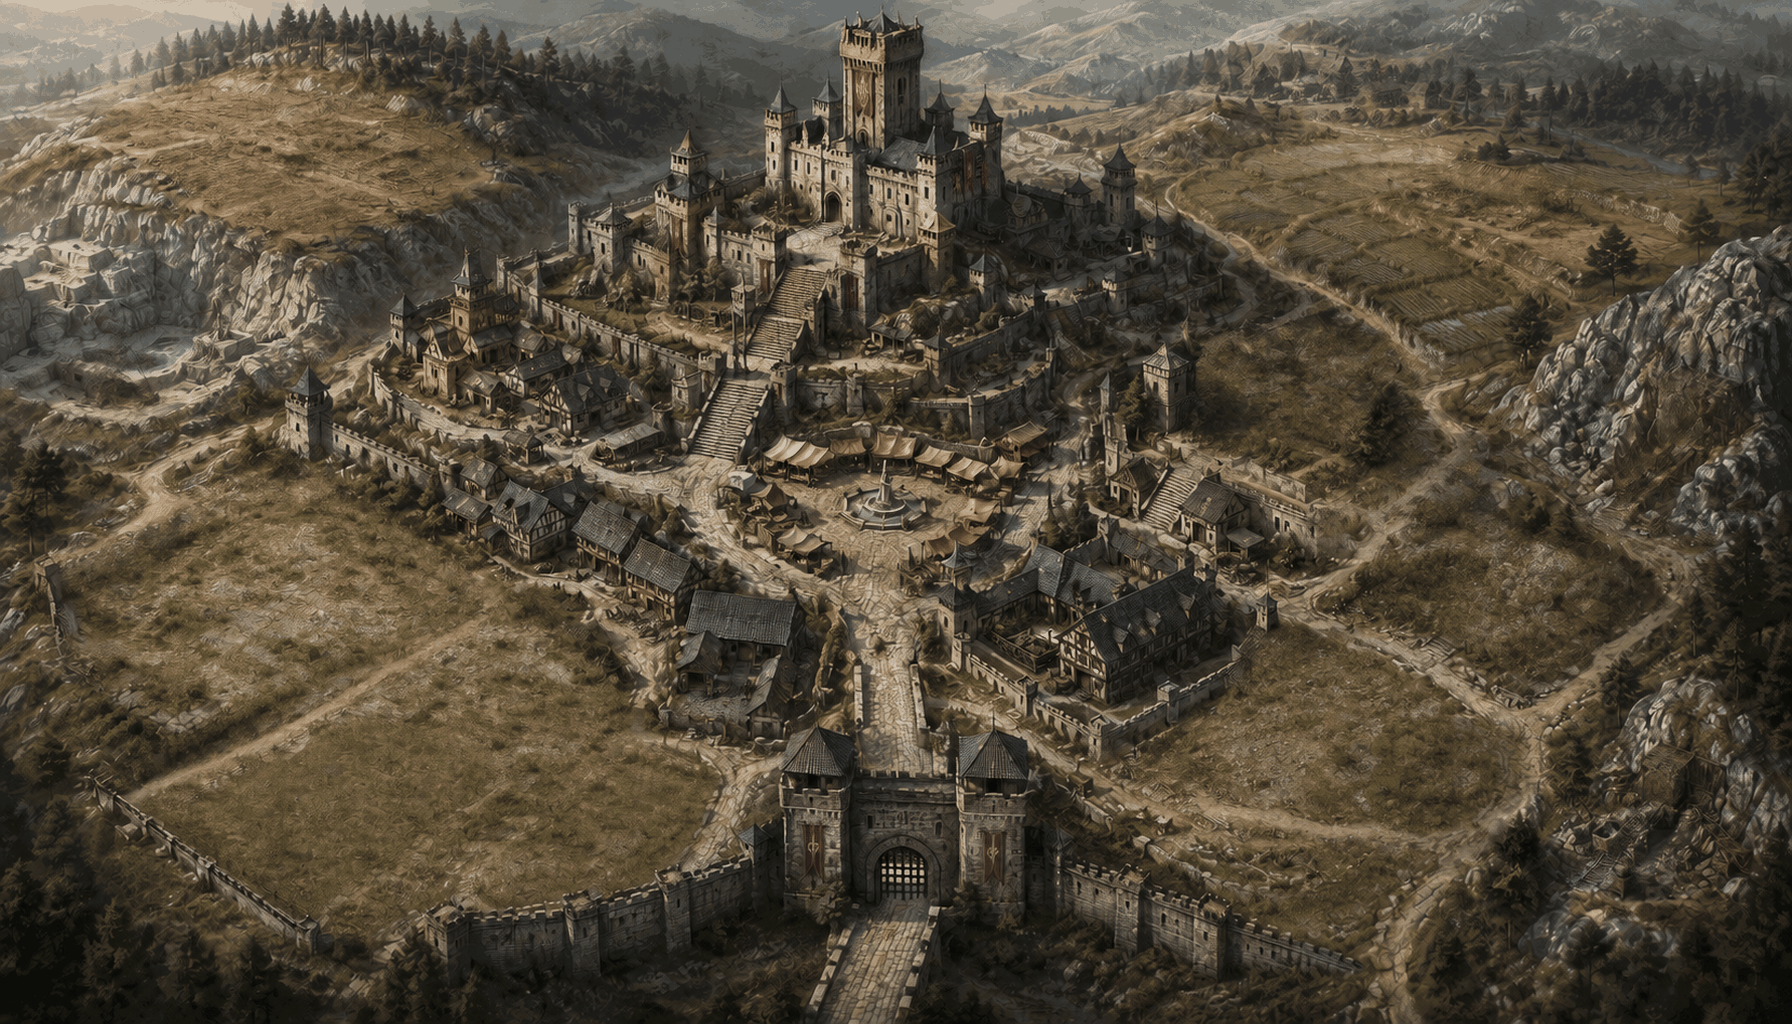
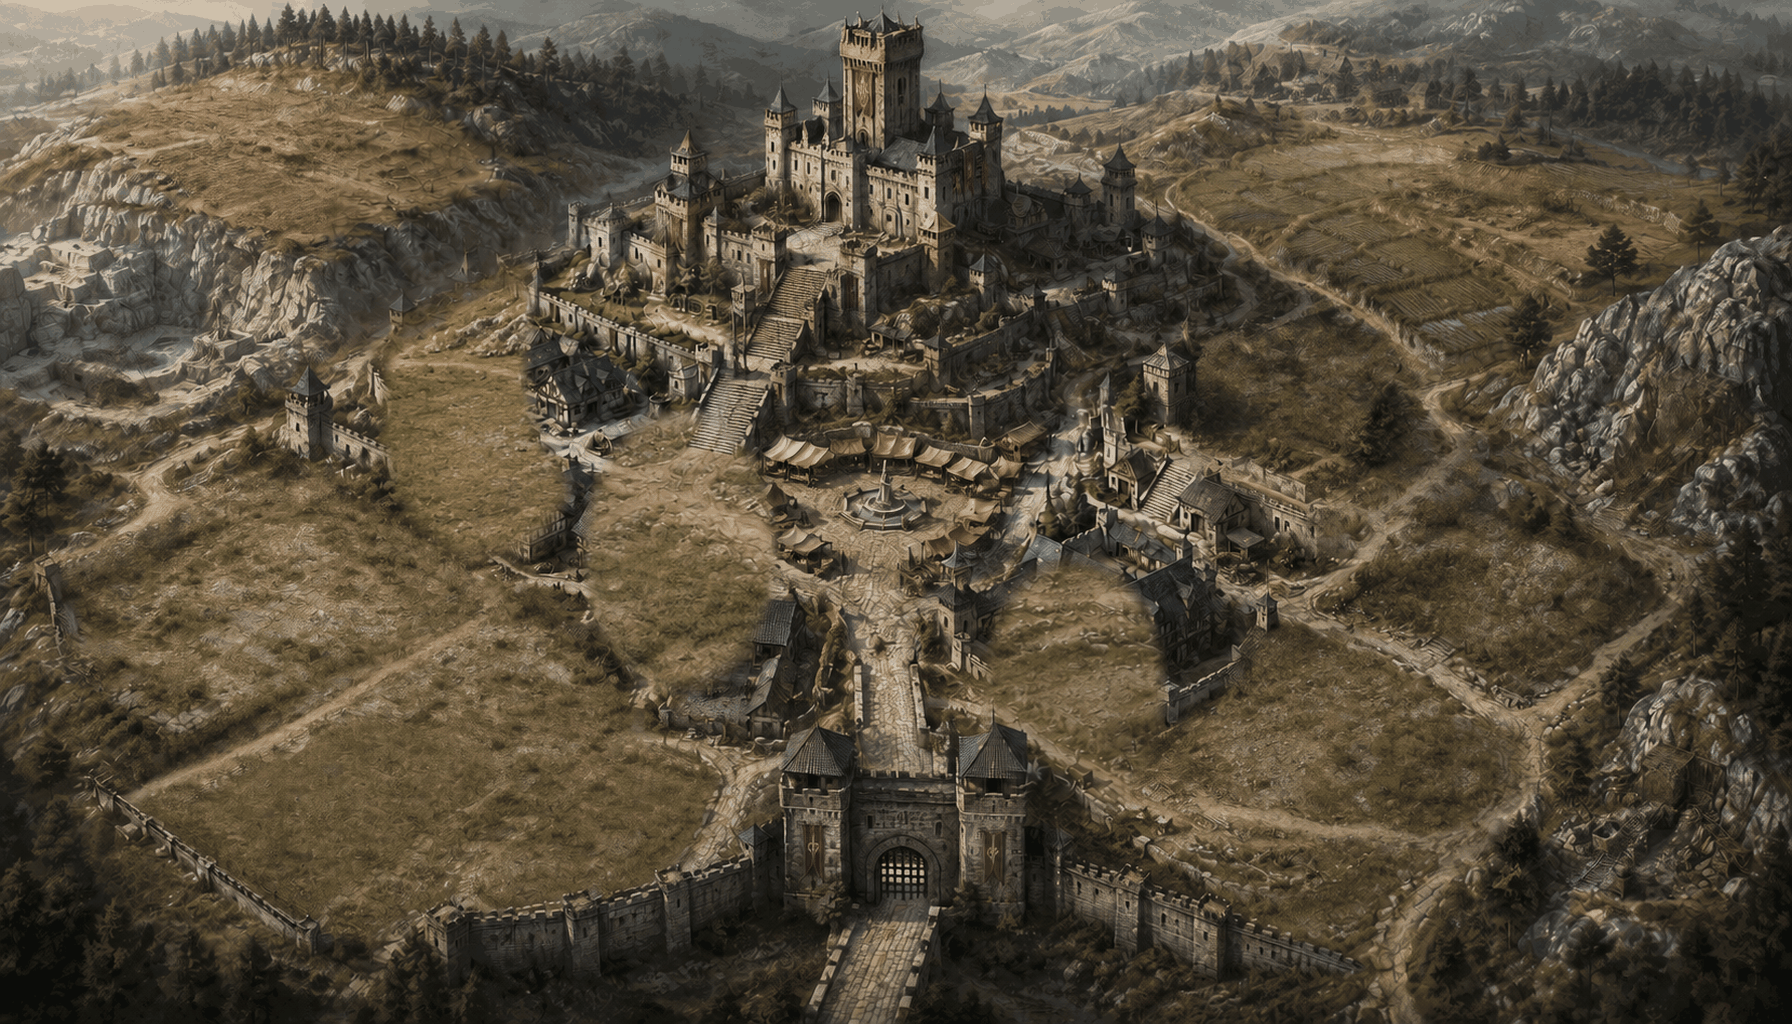
fix(art): clear the six lots the anchors sit on, so buildings stop stacking on houses
Six anchors (p21/p31/p32/p43/p44/p52) landed directly on houses drawn in the base image, which the spec says should be erased lots. Inpaints those six patches with the project's own image API (mask alpha=0 marks the redraw area), takes only the masked pixels when compositing so everything outside is byte-identical by construction, and quantises back to 224 colours (1322KB vs 1383KB, mean error 0.54/255). Rebuilt and re-verified: multi-types, city-states and shot-city-grid all exit 0, and the barracks now stands on cleared ground. The first mask attempt is recorded too: too small, it left the towers behind.

Changed region(s): [[0.1875, 0.1875, 0.4375, 0.6875], [0.5312, 0.375, 0.6875, 0.8125], [0.1875, 0.125, 0.2812, 0.25]]

diff --git a/收口清单.md b/收口清单.md
@@ -527,7 +527,8 @@
 | 323 | **服务端通知文案里三处 `save == null ? id : save.nickName()` 的兜底会把 playerId 写进玩家读到的句子里** | 与 #320/#322 同族（内部编号外泄）。这三处是"找到存档就写昵称、找不到就退回写 id"——玩家名册里查不到时，那句通知就变成一串 `P9179c…`。本轮没动：改法要先定"查不到人时那句话该说什么"（例如「一位已注销的玩家」），属文案口径 | 形态证据：`SocialAppService.java` 的三处 `save == null ? id : save.nickName()`（联盟职位变更通知、成员相关通知） |
 | 324 | **`PAUSED`（暂停态）在服务端没有生产触发：客户端那一半齐了，但今天没有任何路径能进入这一态** | `CityState.pause(instanceId)` / `resume(instanceId)` 在 core 里有方法、`CityStateTest` 有用例，但 **`server/game-web` 里一处调用点都没有**（grep 只命中 `release/ReleaseRulesAssembler` 里一个同名参数 `fullGcPauseMaxMs`，与此无关）。于是"暂停态"这条验收（`CITY-ART-07` 的五个状态之一、以及客户端 `row.paused` 那套琥珀点 + 选择栏文案 + "暂停不显示倒计时"的判据）**在真机上永远走不到**。要不要补触发（例如"被攻击/维护时暂停"、或策划另有口径）属玩法决定，不是实现缺口 | 客户端侧证据：`CityPanel.ts` 的 `paused` 分支与 `statusText`（"已暂停"）、`tests/CityPanel.test.ts` 的"PAUSED 不显示倒计时"用例都绿；服务端侧证据：`grep -rn "city.pause\|\.pause(" server/game-web/src/main` 零命中。审计 §十五 记了这件事 |
 | 325 | **运行时量具进不了 `check.sh`：那 26 道门是静态门，而 `verify-art-runtime` / `verify-city-states` / `verify-gift-popup` / `verify-city-build-many` 都要产物 + 一台活后端 + 无头浏览器** | 2026-09-22 把三条一次性探针迁进 `tools/` 时确认的事：它们**无法**塞进 `scripts/check.sh`（那套门的全部前提是"不需要后端、不需要浏览器"，塞进去 CI 在没有后端时会全红）。要让内城这些运行期判据进 CI，得先决定：① 谁在 CI 里起后端（哪一台端口、内存存储还是 Mongo）、② 用哪个 deviceId 的账号（新号只有主城 1 栋，测不到"建了才叠正稿"与"可收取"）、③ 失败时留不留截图产物。三条都是环境决策，不是实现缺口 | 证据：`scripts/check.sh` 里 26 道全是 `.sh`/`.js` 静态检查；三个新工具的依赖写在各自文件头（产物 + `BACKEND_ORIGIN` + Playwright）。迁移记录见审计 §十六 |
-| 326 | **A18 的 15 张建筑正稿与底图不一致：6 处锚点落在已有民居上（实现偏差）+ 大件正稿尺寸溢出 + 硬切边（美术取舍）** | 2026-09-22 逐块核对（审计 §十八，做法：把 36 个锚点按运行期同一套映射画到**底图**上，映射先用运行期真值自证 p33→(887,138)）。结论分三类：① **p21、p31、p32、p43、p44、p52** 这 6 个锚点**直接压在底图的灰瓦屋顶上** —— 规格 §8.1 第 3 条明写"其余落在被抹空的建筑位"，所以这是**实现偏差**，叠上去就是"楼上叠楼"；② 兵营那处（p51）落点其实在**草地**上，挤到民居是**正稿尺寸溢出**（`buildingIconSize` 给兵营的边长大于脚印）；③ 仓库的**底部硬切边**与整体"等距单体 vs 高角度厚涂"的视角错位属**美术取舍**。处置建议：**推荐 B′ 局部修补底图**（在 6 个落点处把民居抹掉换成空地/土台）—— 这正是 §8.1 第 1 条做过一次的事，说明当时"抹的范围与锚点表没对齐"；比挪锚点更实（**2026-09-22 01:4x 实测：内城核心区没有邻近空地**，16 个候选点里只有 2 个是真空地，见审计 §十九），也比重出 15 张正稿便宜。挪锚点那条路**实测做不到**（会破坏"地皮互不重叠"与构图语义，`civic` 类跑到城外草坡上语义也垮）。B′ 需要**图像编辑能力的凭据**（上一轮用的外部图像 API），属对外调用，开工前得先点头 | 证据：`tmp/anchors-on-base.png` 与四张分区裁剪 `tmp/anchors-on-base-q-*.png`（p21/p31/p32/p43/p44/p52 压在屋顶上一眼可见）、实机帧 `client/build/art-verify/13-city-multi-types.png`、量具 `tools/verify-city-multi-types.mjs` 退 0。**这是观感判定，不是机器判据**；第一版脚本因 y 轴双重翻转把 p33 画错 260px，正是"量具自己算错"的实例，现带 `--verify` 自检 |
+| 326 | **A18 正稿与底图的观感差异：仓库底部有硬切边、整体"等距单体 vs 高角度厚涂"的视角错位**（原"6 处锚点落在民居上"那一半**已修**，见下一格说明） | 2026-09-22 多类型叠加复检（审计 §十七/§十八）逐块裁图看到：① `building-warehouse-v1` **底部是一条直切边**，压在岩台上时那条硬边看得见；② 兵营的"与民居挤在一起"**不是锚点问题**，是正稿尺寸溢出（`buildingIconSize`）。根因是美术口径：A18 正稿是**等距单体**、底图是**高角度厚涂**。**已修的那一半**：p21/p31/p32/p43/p44/p52 这 6 个锚点原本压在底图民居上（规格 §8.1 第 3 条要求落在被抹空的建筑位），2026-09-22 用局部重绘把这 6 处抹成空地并入库（审计 §二十一，含两轮遮罩试错与量化对比）**仍未做**：切边与视角错位要重出 15 张贴合底图视角的正稿（1~2 天、预算项），或给"压在民居上"的大件降一档尺寸 | 证据：实机帧 `client/build/art-verify/13-city-multi-types.png`（改后兵营站在空地上）、裁剪 `tmp/crop-warehouse.png`（硬切边）；量具 `tools/verify-city-multi-types.mjs`、`tools/verify-city-states.mjs`、`tools/shot-city-grid.mjs` **三个都退 0**；底图原件备份 `tmp/backup-city-base-v1-EF928E9A.png`（可 `git checkout` 回滚）。**观感判定，不是机器判据** |
+prod 装的若还是本地宽松实现就直接拒绝启动。
 prod 装的若还是本地宽松实现就直接拒绝启动。
 prod 装的若还是本地宽松实现就直接拒绝启动。
 **（2026-09-18 更正，见 #176 与 #177）**本段原文把"真实实现（微信 code → openid → 会话票据）与客户端带上
